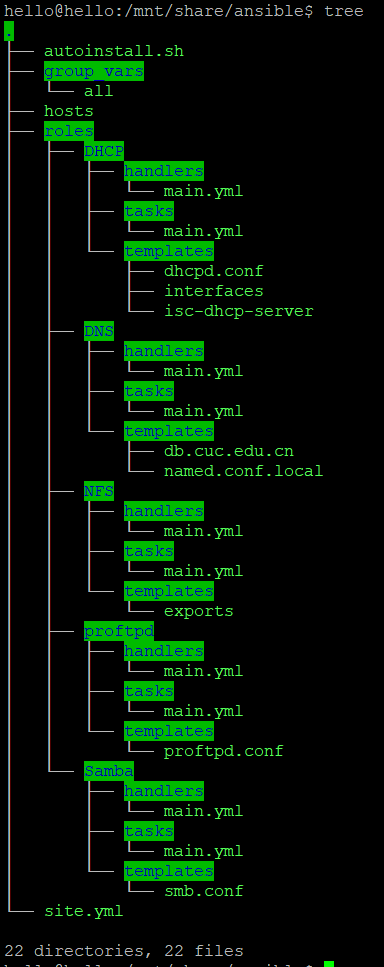
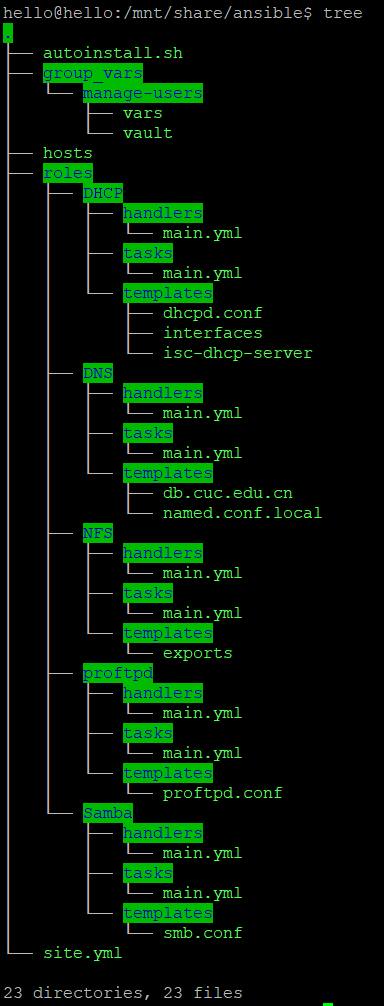
使用Ansible-vault对密码加密

diff --git a/实验七：ansible一键部署/README.md b/实验七：ansible一键部署/README.md
@@ -3,6 +3,15 @@
 ## [安装](http://docs.ansible.com/ansible/latest/installation_guide/intro_installation.html#control-machine-requirements)
 
 ## [一键部署](ansible/)
+```bash
+ansible-vault create vault.yml
+
+ansible-vault edit vault.yml
+
+ansible-playbook -i hosts site.yml --ask-vault-pass
+
+```
+Vault password: **password**
 
 ![](images/2.PNG)
 
@@ -26,3 +35,5 @@
 [ansible user module](http://docs.ansible.com/ansible/latest/modules/user_module.html)
 
 [ansible service module](http://docs.ansible.com/ansible/latest/modules/service_module.html)
+
+[ansible vault](https://docs.ansible.com/ansible/2.4/vault.html)
